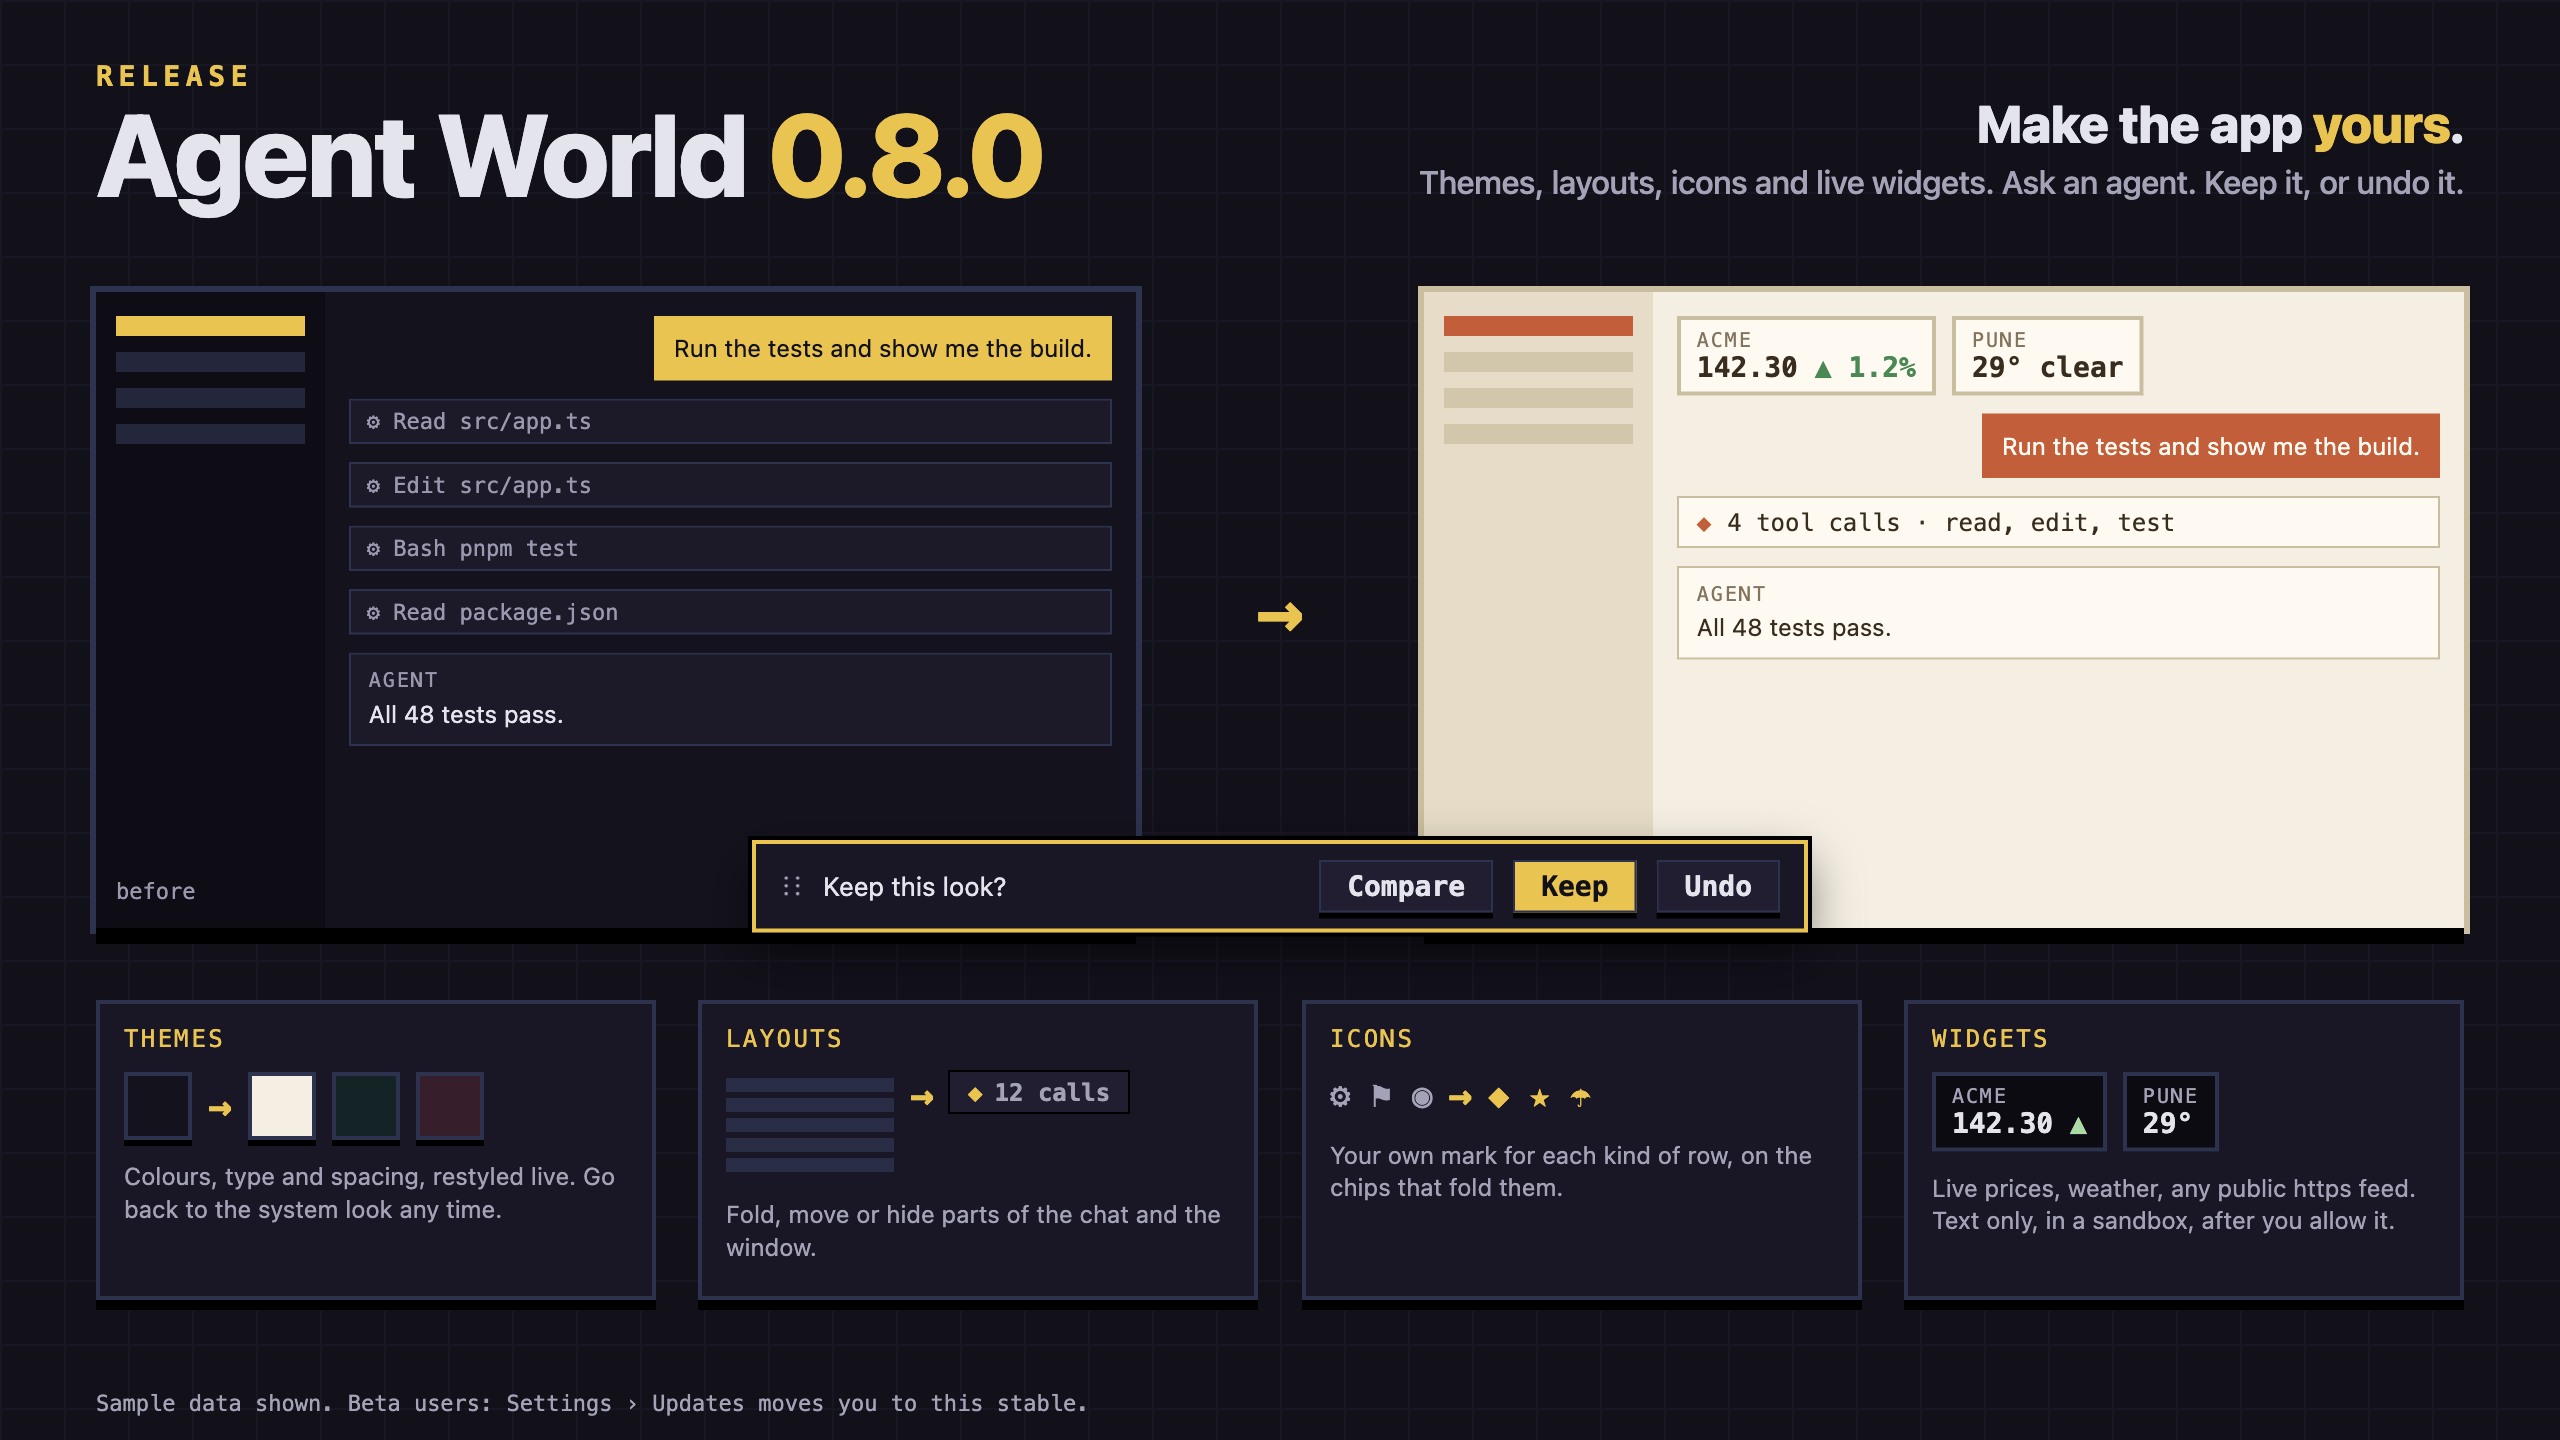
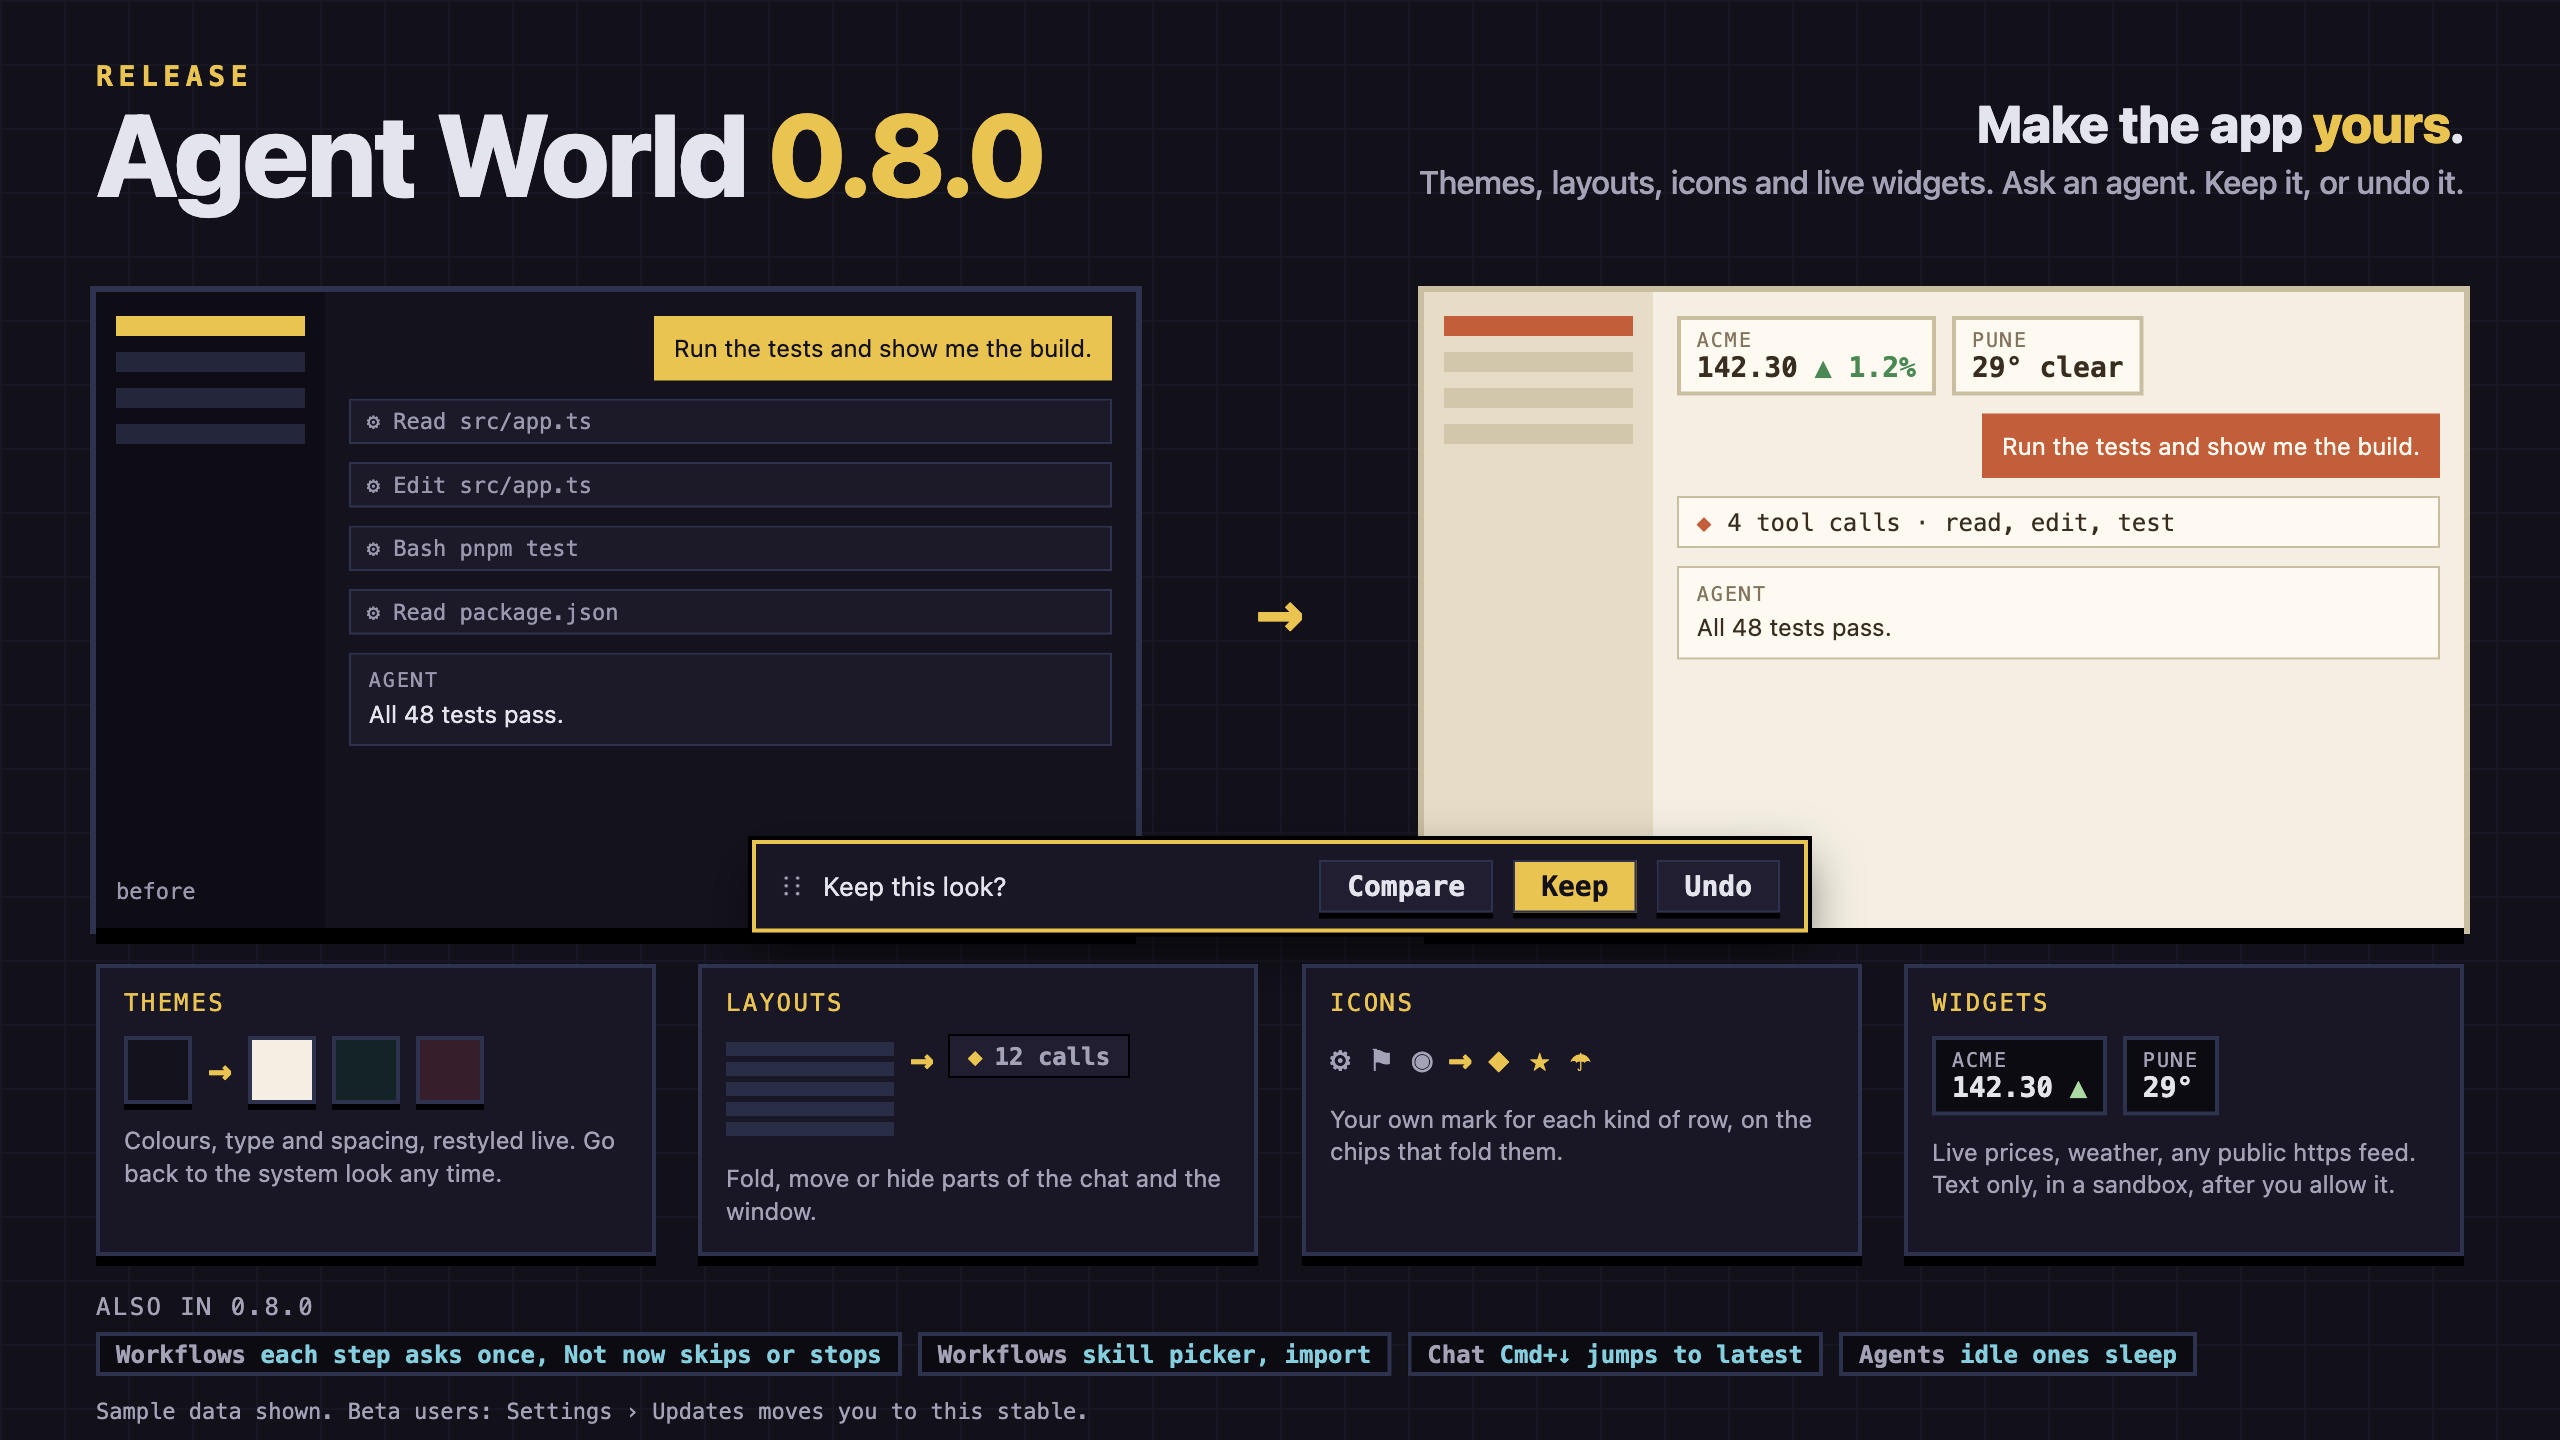
chore(release): the 0.8.0 changelog and poster hold the workflow rework, idle sleep, import and Cmd+Down

Changed region(s): [[0.0312, 0.6875, 0.9688, 1.0]]

diff --git a/CHANGELOG.md b/CHANGELOG.md
@@ -18,9 +18,22 @@ All notable changes to Agent World are listed here. The format follows [Keep a C
 - Chat: the agent's calls that change the look are a group of their own, Appearance, and the agent is told when you press Undo, Keep or restore.
 - Workflows: a step's skill is added with the Playbook's picker, with search, groups by where the skill came from and descriptions, in place of the plain dropdown.
 - Workflows: a warning in the Workflows window and the agent's Workflow tab names the running agents that started before Workflows was switched on or before the project's workflow file changed, with a **Restart** button.
+- Workflows: a step that asks you asks once, before it starts, with **Run** and **Not now**. The agent runs its own tests and reviews in a step and reports each one in order; an optional step it leaves out shows as skipped, with the reason, and is never passed over without saying so.
+- Workflows: **Not now** skips an optional step, and stops the workflow at a required one: that step shows red, the steps after it stay held, and the agent is told to wait.
+- Workflows: the Runs tab opens each run in a panel beside the ledger, with the same flow chart as the Workflow tab, the steps with their skip or refusal reasons and the items added to the run, and shows steps followed as a grid of one square per step per run.
+- Workflows: **Import…** in the Workflows window lists the other workspaces with the workflows each keeps, and copies one into this project or for everything. An import never replaces a file or the built-in Standard.
+- Workflows: with remote control on, `approve <code>` on a step that asks before it starts is your Run, and `changes <code>: reason` is Not now.
+- Chat: what you press on a workflow card shows as a one-line receipt on your side, with the sentence the agent got folded under it.
+- Chat: Cmd+↓ (Ctrl+↓) jumps to the latest message wherever you clicked outside a text box.
+- Agents: an agent that has been idle for 30 minutes with nothing running is put to sleep to free its memory, and its **Wake** button starts it again. One in an open workflow run is not put to sleep.
+
+### Changed
+
+- Workflows: the **Plan gate** and **Merge gate** switches are gone from Settings. Whether a step waits for you is set on the step itself (**Needs my approval** in the workflow builder); a plan or pull request step with no gate set still waits for you. If you had turned a switch off, set that step's gate to auto.
 
 ### Fixed
 
+- Workflows: a push counts only once the remote has it, so the next step does not start while it runs; an approved push is told to the agent even when its commits were not read yet, and again from a **Tell the agent to push** button on the step.
 - Look: CSS in a look may not use `image-set()`, `image()`, `cross-fade()`, `element()` or `src()`, which can load an address given as plain text, and comment marks inside strings no longer hide a `url()` from the checks.
 
 ## [0.7.5] - 2026-10-30
